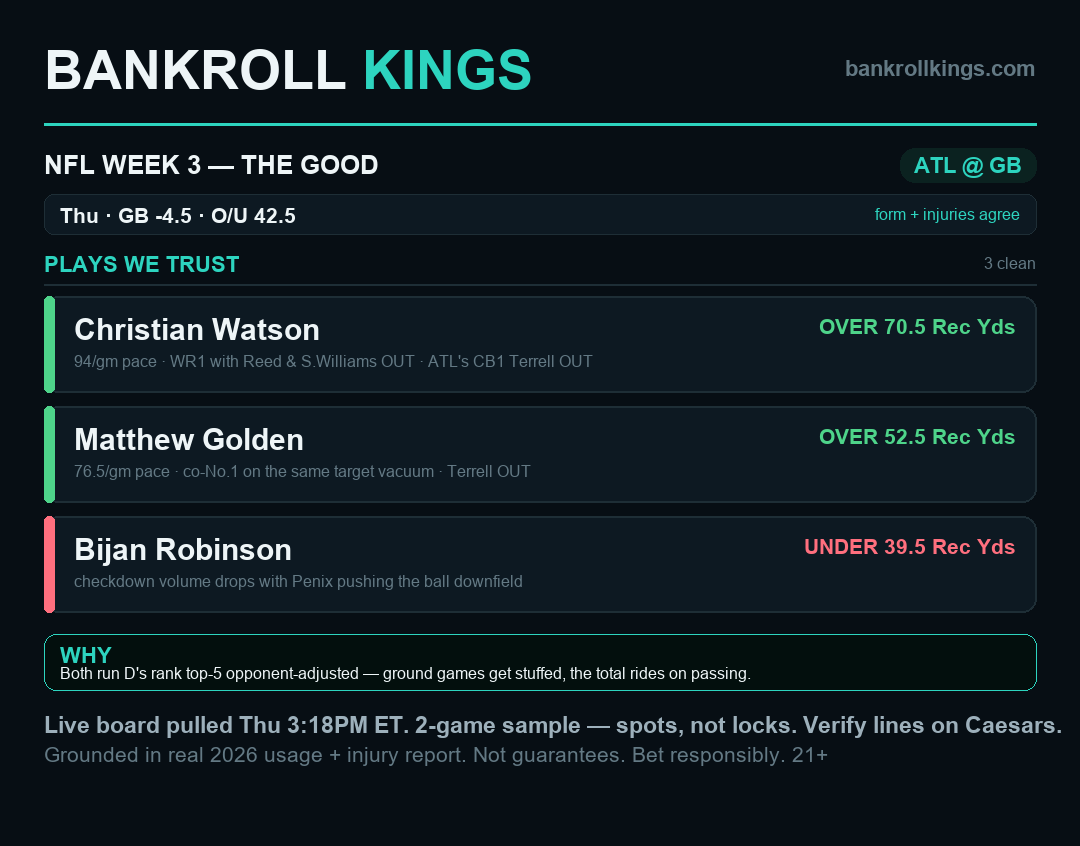
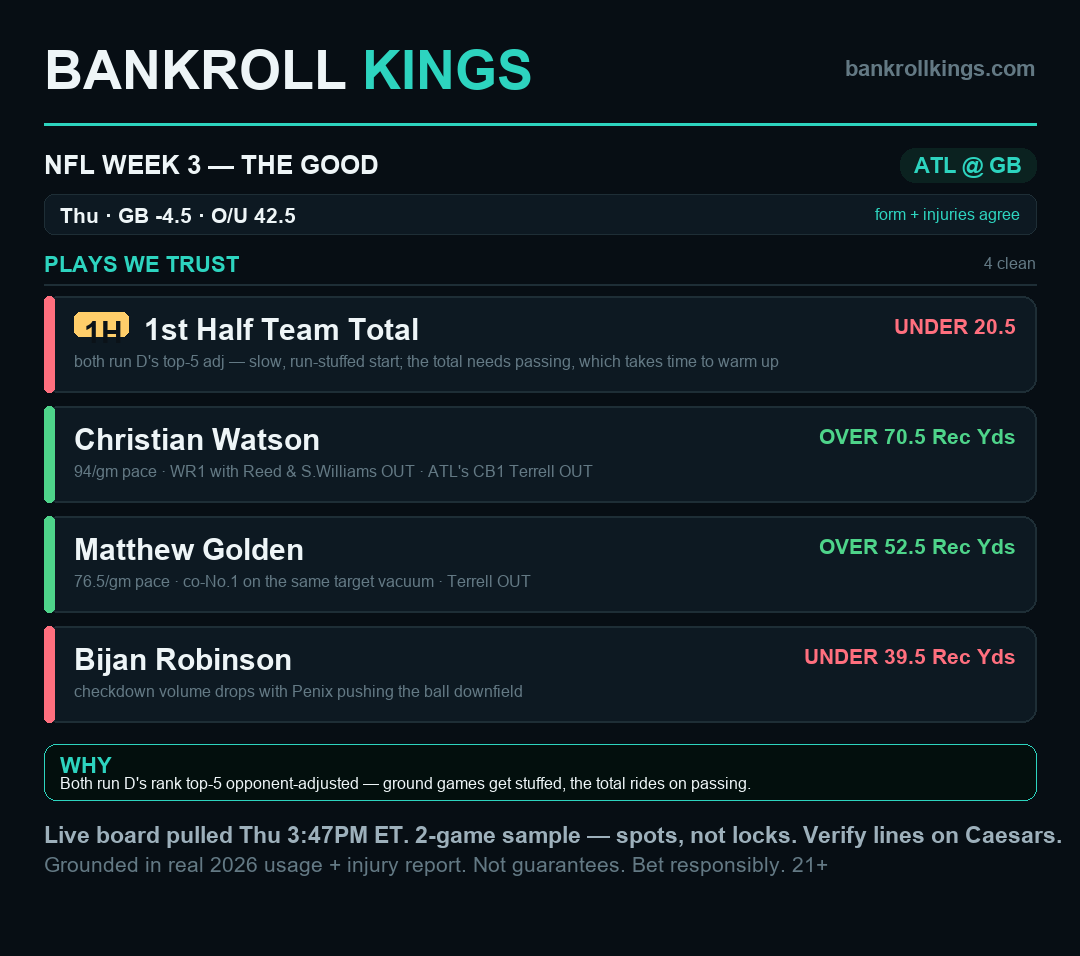
weekly_cards: fold the 1H under into the ATL@GB Good card
Leads the card with the game-level expression of the same read — 1st-half team
total UNDER 20.5 (median across books) — badged "1H", above the three player
plays. Both run D's top-5 adjusted = slow, run-stuffed start.

diff --git a/marketing/generators/weekly_cards.py b/marketing/generators/weekly_cards.py
@@ -756,15 +756,19 @@ ATLGB_GOOD = [
      "checkdown volume drops with Penix pushing the ball downfield"),
 ]
 ATLGB_CTX = "Both run D's rank top-5 opponent-adjusted — ground games get stuffed, the total rides on passing."
+# Game-level play: the same read expressed on the 1H total (median across books).
+ATLGB_PERIOD = ("1st Half Team Total", "UNDER 20.5", "under",
+                "both run D's top-5 adj — slow, run-stuffed start; the total needs passing, which takes time to warm up")
 
 
 def card_atlgb_good(week, out):
     """Single-game clean card: the ATL@GB 'Good' tier — props where current-season
-    form and the injury report point the same direction."""
+    form and the injury report point the same direction, plus the 1H-under expression."""
     kcol = {'over': GREEN, 'under': RED}
     top = 250
     ph = 96  # per-play block height
-    H = top + 54 + len(ATLGB_GOOD) * (ph + 14) + 92 + 120
+    n_plays = len(ATLGB_GOOD) + 1  # + the 1H period play
+    H = top + 54 + n_plays * (ph + 14) + 92 + 120
     c = Card(H); d = c.d
     y = c.header(f"NFL {week.upper()} — THE GOOD", chip=ATLGB_GAME[0])
 
@@ -775,8 +779,20 @@ def card_atlgb_good(week, out):
     y += 58
 
     c.text(M, y, "PLAYS WE TRUST", F['col'], CY)
-    c.text(W - M, y + 2, f"{len(ATLGB_GOOD)} clean", F['de'], FAINT, right=True)
+    c.text(W - M, y + 2, f"{n_plays} clean", F['de'], FAINT, right=True)
     y += 32; d.line([(M, y), (W - M, y)], fill=LINE, width=2); y += 12
+
+    # 1H period play first (game-level), with a period badge
+    plabel, ppick, pkind, pwhy = ATLGB_PERIOD
+    accent = kcol.get(pkind, INK)
+    d.rounded_rectangle([(M, y), (W - M, y + ph)], radius=14, fill=PANEL, outline=LINE, width=2)
+    d.rounded_rectangle([(M, y), (M + 10, y + ph)], radius=6, fill=accent)
+    d.rounded_rectangle([(M + 30, y + 16), (M + 84, y + 40)], radius=6, fill=GOLD)
+    c.text(M + 40, y + 19, "1H", F['blk'], (11, 18, 24))
+    c.text(M + 100, y + 16, plabel, F['blk'], INK)
+    c.text(W - M - 20, y + 18, ppick, F['pl'], accent, right=True)
+    c.text(M + 30, y + 56, pwhy, F['de'], FAINT)
+    y += ph + 14
 
     for player, pick, kind, why in ATLGB_GOOD:
         accent = kcol.get(kind, INK)
